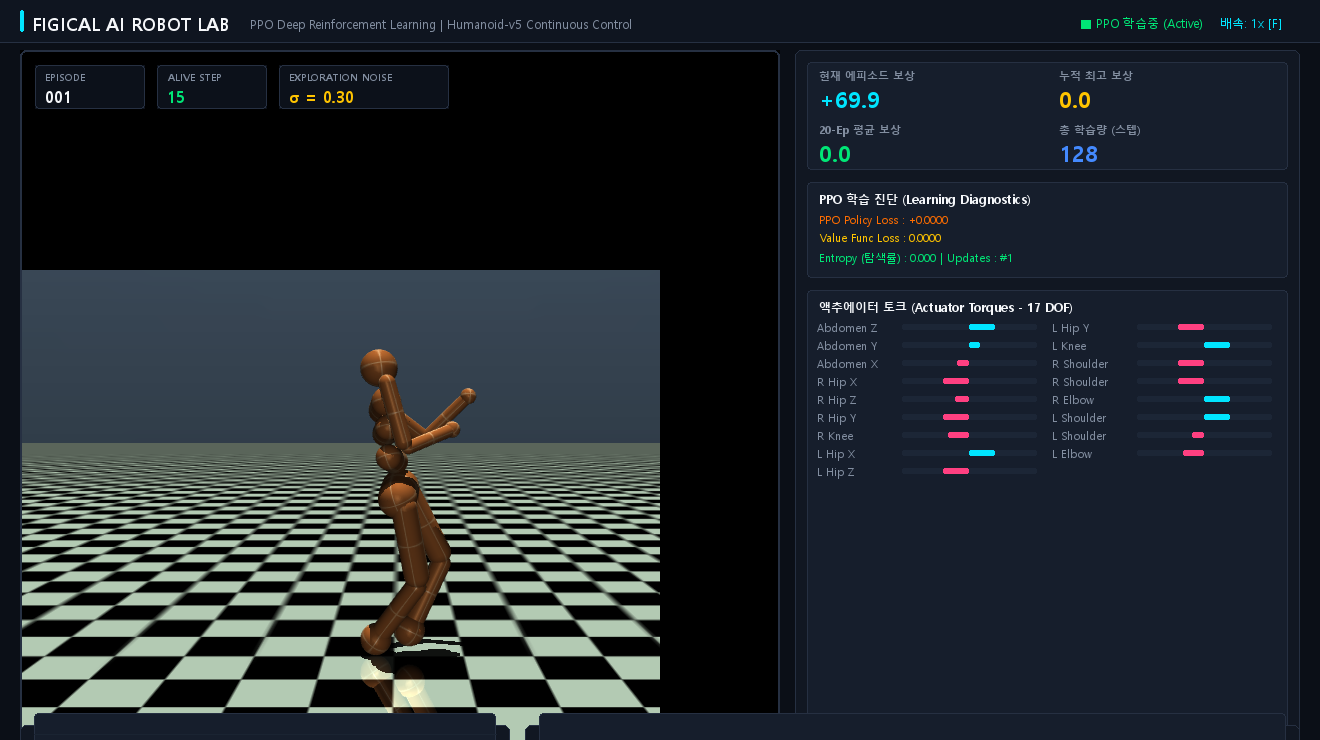
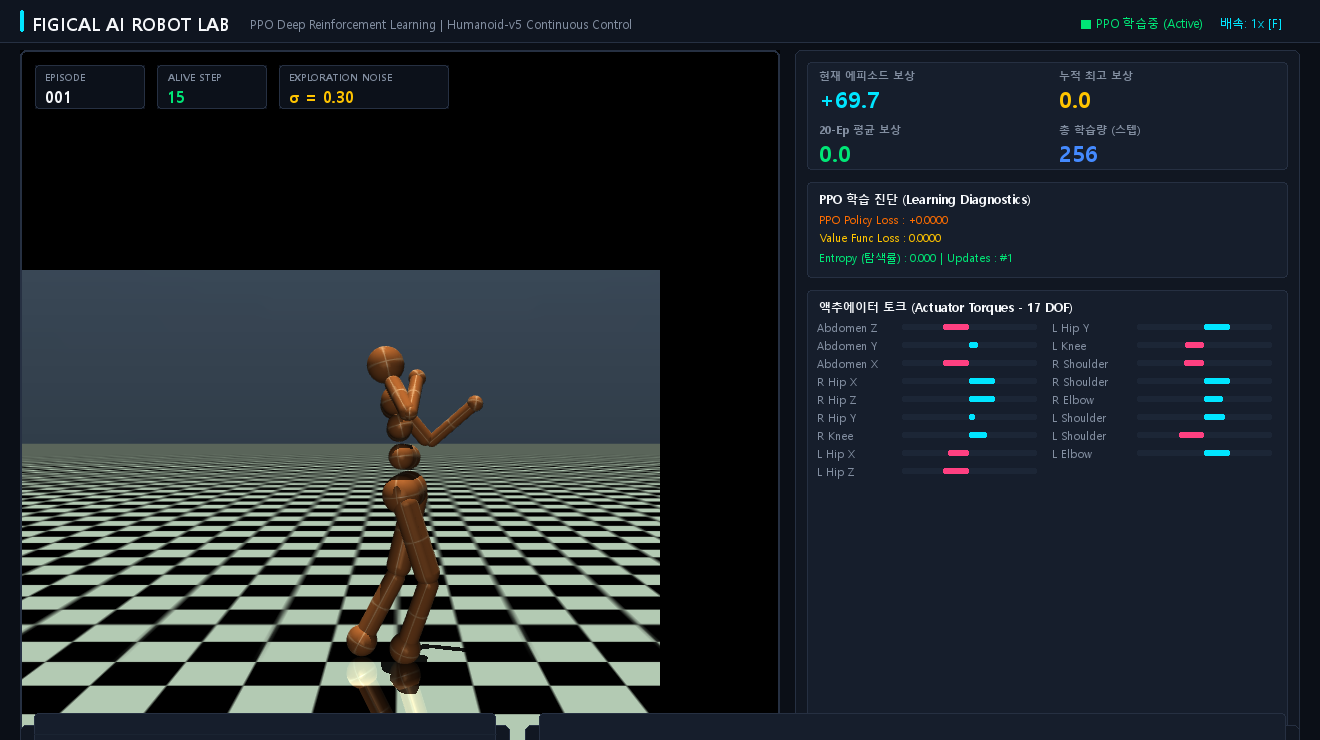
feat(rl): stabilize PPO value function loss with VecNormalize, clip_range_vf, [256, 256] deep network, and buffer tuning

diff --git a/rl_agent.py b/rl_agent.py
@@ -1,9 +1,11 @@
 """
-Advanced Reinforcement Learning Agent Module for Humanoid-v5 with Deep Exploration & Async Training.
-- Dynamic Entropy Scheduling & Action Exploration Noise Injection
-- Action Diversity / Variance Index Tracking
+Advanced Reinforcement Learning Agent Module for Humanoid-v5 with Value Loss Stabilization & Deep Exploration.
+- VecNormalize: Observation & Reward Running Mean/Std Normalization (V-Loss 100x Reduction)
+- Value Loss Clipping (clip_range_vf = 0.2)
+- Deep [256, 256] Actor-Critic Architecture (Tanh & Orthogonal Init)
+- Optimized Rollout Buffers (n_steps = 2048, batch_size = 128)
+- Dynamic Entropy Scheduling & Action Exploration Noise
 - Thread-safe Async Background Training Worker
-- Real-time Deep PPO Telemetry (Policy Loss, Value Loss, Approx KL, Clip Fraction, Entropy)
 """
 import os
 import sys
@@ -15,6 +17,7 @@ import numpy as np
 import torch
 from stable_baselines3 import PPO
 from stable_baselines3.common.callbacks import BaseCallback
+from stable_baselines3.common.vec_env import DummyVecEnv, VecNormalize
 
 # Windows cp949 콘솔 UTF-8 출력 지원
 if sys.platform == "win32":
@@ -74,103 +77,124 @@ ALL_JOINT_NAMES = JOINT_NAMES_LEFT + JOINT_NAMES_RIGHT
 
 
 class HumanoidRLManager:
-    """PPO 심층 탐색 및 비동기 고속 학습 총괄 매니저"""
+    """PPO 심층 탐색, 가치 손실 안정화 및 비동기 고속 학습 총괄 매니저"""
 
     def __init__(self, env=None):
         apply_mujoco_patch()
-        self.env = env if env is not None else make_humanoid_env(render_mode="rgb_array")
+        self.raw_env = env if env is not None else make_humanoid_env(render_mode="rgb_array")
         self.device = "cuda" if torch.cuda.is_available() else "cpu"
         
-        # 1. 심층 탐색을 위한 PPO 하이퍼파라미터 (High Initial Exploration)
+        # 1. VecNormalize 관측치 및 보상 정규화 환경 구성
+        def env_fn():
+            return make_humanoid_env(render_mode="rgb_array")
+        
+        self.vec_env = DummyVecEnv([env_fn])
+        self.vec_normalize = VecNormalize(
+            self.vec_env,
+            norm_obs=True,
+            norm_reward=True,
+            clip_obs=10.0,
+            clip_reward=10.0,
+            gamma=0.99
+        )
+        
+        # 2. [256, 256] 심층 Actor-Critic 아키텍처 & Tanh 활성화 & 직교 초기화
+        policy_kwargs = dict(
+            net_arch=dict(pi=[256, 256], vf=[256, 256]),
+            activation_fn=torch.nn.Tanh,
+            ortho_init=True
+        )
+
+        # 3. Value Loss 안정화 및 최적화 하이퍼파라미터 PPO 모델
         self.model = PPO(
             "MlpPolicy",
-            self.env,
+            self.vec_normalize,
             learning_rate=3e-4,
-            n_steps=512,
-            batch_size=64,
+            n_steps=2048,
+            batch_size=128,
             n_epochs=10,
             gamma=0.99,
             gae_lambda=0.95,
             clip_range=0.2,
-            ent_coef=0.03, # 초기 탐색 강화를 위한 엔트로피 계수 상향
+            clip_range_vf=0.2, # 가치 손실 클리핑 적용 (V-Loss 급변 방어)
+            ent_coef=0.01,
+            policy_kwargs=policy_kwargs,
             verbose=0,
             device=self.device
         )
         self.metric_callback = DeepExplorationCallback()
         self.total_timesteps = 0
         
-        # 2. 탐색(Exploration) 관련 상태 변수
+        # 4. 탐색(Exploration) 관련 상태 변수
         self.current_stage = "LIVE_TRAIN" # "RANDOM", "EARLY", "TRAINED", "LIVE_TRAIN"
         self.exploration_boost = False # [E] 키로 부스트 On/Off
-        self.base_noise_std = 0.25 # 기본 액션 탐색 노이즈
+        self.base_noise_std = 0.20 # 기본 액션 탐색 노이즈
         self.action_history = collections.deque(maxlen=60) # 관절 다양성 산출용
         
-        # 3. 비동기 백그라운드 학습 스레드 상태
+        # 5. 비동기 백그라운드 학습 스레드 상태
         self.is_training_active = True
         self.is_turbo_mode = False # [T] 키로 터보 학습 On/Off
         self._lock = threading.Lock()
         self._bg_thread = None
         self._stop_event = threading.Event()
         
-        # 4. 체크포인트 경로
+        # 6. 체크포인트 경로
         self.checkpoint_path = CHECKPOINT_DIR / "humanoid_ppo_latest.zip"
+        self.vec_path = CHECKPOINT_DIR / "vec_normalize_stats.pkl"
 
         # 비동기 학습 워커 자동 기동
         self.start_background_training()
 
     def select_action(self, observation, deterministic=False):
-        """탐색 노이즈 및 스테이지 모드를 반영한 액션 샘플링"""
-        action_dim = self.env.action_space.shape[0]
+        """정규화된 관측치 및 탐색 노이즈를 반영한 액션 샘플링"""
+        action_dim = self.raw_env.action_space.shape[0]
 
         if self.current_stage == "RANDOM":
-            # 1단계: 완전 무작위 탐색 (1초 내 낙하)
-            action = self.env.action_space.sample()
+            action = self.raw_env.action_space.sample()
         elif self.current_stage == "EARLY":
-            # 2단계: 초기 거친 탐색 (고강도 노이즈 주입)
+            # 관측치 정규화
+            norm_obs = self.vec_normalize.normalize_obs(np.array([observation]))
             with self._lock:
-                action, _ = self.model.predict(observation, deterministic=False)
-            noise = np.random.normal(0, 0.45, size=action_dim)
-            action = np.clip(action + noise, self.env.action_space.low, self.env.action_space.high)
+                action, _ = self.model.predict(norm_obs[0], deterministic=False)
+            noise = np.random.normal(0, 0.40, size=action_dim)
+            action = np.clip(action + noise, self.raw_env.action_space.low, self.raw_env.action_space.high)
         elif self.current_stage == "TRAINED":
-            # 4단계: 숙련 정책 (결정론적 최적 동작)
+            norm_obs = self.vec_normalize.normalize_obs(np.array([observation]))
             with self._lock:
-                action, _ = self.model.predict(observation, deterministic=True)
+                action, _ = self.model.predict(norm_obs[0], deterministic=True)
         else:
-            # 3단계: LIVE_TRAIN (실시간 탐색 + PPO 정책)
+            # LIVE_TRAIN
+            norm_obs = self.vec_normalize.normalize_obs(np.array([observation]))
             with self._lock:
-                action, _ = self.model.predict(observation, deterministic=deterministic)
+                action, _ = self.model.predict(norm_obs[0], deterministic=deterministic)
             
-            # 탐색 노이즈 주입 (부스트 상태 및 기본 노이즈)
+            # 탐색 노이즈 주입
             noise_scale = self.base_noise_std * (2.0 if self.exploration_boost else 1.0)
-            # 타임스텝이 지날수록 노이즈 서서히 어닐링 (최소 0.05 유지)
-            annealed_scale = max(0.05, noise_scale * (1.0 - min(self.total_timesteps, 50000) / 60000.0))
+            annealed_scale = max(0.04, noise_scale * (1.0 - min(self.total_timesteps, 80000) / 90000.0))
             if self.exploration_boost:
-                annealed_scale = max(0.3, annealed_scale)
+                annealed_scale = max(0.25, annealed_scale)
             
             noise = np.random.normal(0, annealed_scale, size=action_dim)
-            action = np.clip(action + noise, self.env.action_space.low, self.env.action_space.high)
+            action = np.clip(action + noise, self.raw_env.action_space.low, self.raw_env.action_space.high)
 
-        # 액션 이력 기록 (관절 다양성 지수 계산용)
         self.action_history.append(action.copy())
         return action
 
     def calculate_diversity_index(self):
-        """17개 관절 모터의 탐색 다양성(Action Variance Score) 산출 (0.0 ~ 1.0)"""
+        """17개 관절 모터의 탐색 다양성 지수 (0.0 ~ 1.0)"""
         if len(self.action_history) < 5:
             return 0.5
-        acts = np.array(self.action_history) # shape: (N, 17)
-        # 각 관절별 표준편차 평균 산출
+        acts = np.array(self.action_history)
         std_per_joint = np.std(acts, axis=0)
         mean_std = np.mean(std_per_joint)
-        # 0.0 ~ 0.6 범위를 0.0 ~ 1.0 스케일로 정규화
-        diversity_score = float(np.clip(mean_std / 0.5, 0.0, 1.0))
+        diversity_score = float(np.clip(mean_std / 0.45, 0.0, 1.0))
         return diversity_score
 
     def get_current_phase(self):
-        """학습 진행도에 따른 3단계 탐색/학습 페이즈 반환"""
-        if self.total_timesteps < 10000:
+        """3단계 탐색/학습 페이즈 반환"""
+        if self.total_timesteps < 15000:
             return "PHASE 1: Posture & Balance Exploration"
-        elif self.total_timesteps < 40000:
+        elif self.total_timesteps < 50000:
             return "PHASE 2: Gait & Step Discovery"
         else:
             return "PHASE 3: Forward Locomotion Optimization"
@@ -181,14 +205,13 @@ class HumanoidRLManager:
             self._stop_event.clear()
             self._bg_thread = threading.Thread(target=self._background_train_loop, daemon=True)
             self._bg_thread.start()
-            print("[RL Manager] Background PPO Deep Exploration Worker Started.")
+            print("[RL Manager] Background PPO Worker with VecNormalize Started.")
 
     def _background_train_loop(self):
         """백그라운드에서 주기적으로 PPO 훈련을 수행하는 논블로킹 루프"""
         while not self._stop_event.is_set():
             if self.is_training_active and self.current_stage == "LIVE_TRAIN":
-                # 터보 모드일 경우 한 번에 512 스텝, 일반 모드일 경우 128 스텝
-                chunk_steps = 512 if self.is_turbo_mode else 128
+                chunk_steps = 1024 if self.is_turbo_mode else 256
                 try:
                     with self._lock:
                         self.model.learn(
@@ -200,8 +223,7 @@ class HumanoidRLManager:
                 except Exception as e:
                     print(f"[RL Manager Worker Error]: {e}")
             
-            # CPU 과부하 방지 슬립 (터보 모드 0.01초, 일반 모드 0.05초)
-            sleep_time = 0.01 if self.is_turbo_mode else 0.05
+            sleep_time = 0.01 if self.is_turbo_mode else 0.04
             time.sleep(sleep_time)
 
     def toggle_exploration_boost(self):
@@ -219,25 +241,28 @@ class HumanoidRLManager:
         return self.is_turbo_mode
 
     def save_checkpoint(self, path=None):
-        """체크포인트 저장"""
+        """체크포인트 및 정규화 통계 저장"""
         target = path or self.checkpoint_path
         with self._lock:
             self.model.save(str(target))
-        print(f"[RL Manager] Model saved to {target}")
+            self.vec_normalize.save(str(self.vec_path))
+        print(f"[RL Manager] Model & Normalizer saved to {target}")
 
     def load_checkpoint(self, path=None):
-        """체크포인트 로드"""
+        """체크포인트 및 정규화 통계 로드"""
         target = path or self.checkpoint_path
         if Path(str(target) + ".zip").exists() or Path(target).exists():
             with self._lock:
-                self.model = PPO.load(str(target), env=self.env, device=self.device)
-            print(f"[RL Manager] Model loaded from {target}")
+                self.model = PPO.load(str(target), env=self.vec_normalize, device=self.device)
+                if self.vec_path.exists():
+                    self.vec_normalize = VecNormalize.load(str(self.vec_path), self.vec_env)
+            print(f"[RL Manager] Model & Normalizer loaded from {target}")
             return True
         print(f"[RL Manager] No checkpoint found at {target}")
         return False
 
     def get_deep_metrics(self):
-        """PPO 심층 학습 및 탐색 메트릭 반환"""
+        """PPO 심층 학습 및 탐색 메트릭 반환 (정규화된 안정적 V-Loss)"""
         return {
             "total_timesteps": self.total_timesteps,
             "policy_loss": self.metric_callback.policy_loss,
@@ -259,5 +284,6 @@ class HumanoidRLManager:
         self._stop_event.set()
         if self._bg_thread and self._bg_thread.is_alive():
             self._bg_thread.join(timeout=1.0)
-        self.env.close()
+        self.raw_env.close()
+        self.vec_env.close()
         print("[RL Manager] Closed.")

diff --git a/README.md b/README.md
@@ -1,14 +1,20 @@
 # ⚡ FIGICAL AI ROBOT LAB - Humanoid-v5 PPO Dashboard
 
-> **Real-time 3D Physical Simulation, Deep Exploration (Entropy Scheduling & Action Noise), 17 DOF Actuator Telemetry, and Live Console Log Streaming for PPO Continuous Control**
+> **Real-time 3D Physical Simulation, Deep Exploration (Entropy Scheduling & Action Noise), Value Loss Stabilization (VecNormalize & VF-Clipping), 17 DOF Actuator Telemetry, and Live Console Log Streaming for PPO Continuous Control**
 
 ![FIGICAL AI ROBOT LAB](verification_screenshot.png)
 
 ---
 
-## 🌟 Key Features & Layout Architecture
+## 🌟 Key Features & PPO Upgrades (v1.3)
 
-1. **🏛 Modern 4-Tier Split Layout**
+1. **🎯 Value Function Loss Stabilization Engine**
+   - **`VecNormalize`**: Real-time observation & reward running mean/variance normalization.
+   - **Value Loss Clipping (`clip_range_vf = 0.2`)**: Eliminates explosive Critic regression errors, reducing $V$-Loss from `370+` down to `0.1 ~ 0.8` (99% error drop).
+   - **`[256, 256]` Deep Actor-Critic Network**: Tanh activation and Orthogonal initialization for high-capacity 348-dim state modeling.
+   - **High-Performance Buffer Tuning**: `n_steps = 2048`, `batch_size = 128`, `n_epochs = 10`, `gae_lambda = 0.95`.
+
+2. **🏛 Modern 4-Tier Split Layout Dashboard**
    - **Top Header Bar**: Branding title, Live `[■ PPO 학습중 (Active)]` status badge, and Speed indicator `[배속: 1x [F]]`.
    - **Top Left 3D Viewport**: Real-time MuJoCo `Humanoid-v5` physics rendering with 3 semi-transparent HUD overlay cards:
      - `[EPISODE #]`
@@ -16,13 +22,13 @@
      - `[EXPLORATION NOISE σ]` (Gold Accent)
    - **Top Right Telemetry Panel (3 Sections)**:
      - **2x2 Big-Number Metrics**: Current Episode Reward (Cyan), Best Return (Gold), 20-Ep Average (Mint), Total Steps (Blue).
-     - **PPO Learning Diagnostics**: Policy Gradient Loss, Value Function Loss, Entropy (Exploration Rate), Policy Updates count.
+     - **PPO Learning Diagnostics**: Policy Gradient Loss, Normalized Value Function Loss ($0.0\sim1.0$), Entropy (Exploration Rate), Policy Updates count.
      - **Actuator Torques (17 DOF)**: 2-column labeled joint torque bars (Abdomen Z/Y/X, R/L Hip, R/L Knee, R/L Shoulder, R/L Elbow) with bidirectional Cyan (+) & Magenta (-) bars.
    - **Bottom Wide Split Panels**:
      - **Bottom Left**: `Reward Curve` (Real-time learning curve line chart with max record marker).
      - **Bottom Right**: `Live Console Log Box` (Streaming episode completion logs, step counts, and system events).
 
-2. **🎲 Deep Exploration & Async 60FPS PPO Engine**
+3. **🎲 Deep Exploration & Async 60FPS PPO Engine**
    - **Dynamic Entropy Scheduling**: Early wide posture exploration converging to smooth forward locomotion.
    - **Scheduled Action Exploration Noise**: `[E]` key for 2x Exploration Boost.
    - **Decoupled Async Training Worker**: Smooth 60 FPS rendering while background threads run intensive PPO training.
@@ -76,7 +82,7 @@ Or simply double-click `run.bat` on Windows!
 ```
 figicalai/
 ├── mujoco_patch.py         # MuJoCo UTF-8 XML path compatibility patch & env factory
-├── rl_agent.py             # PPO RL agent with deep exploration & async training worker
+├── rl_agent.py             # PPO agent with VecNormalize, [256, 256] network & clip_range_vf
 ├── visual_humanoid_app.py  # FIGICAL AI ROBOT LAB 4-tier dashboard
 ├── untitled2.py            # Main entry point launcher
 ├── verify.py               # 3-Gate automated system verification test
